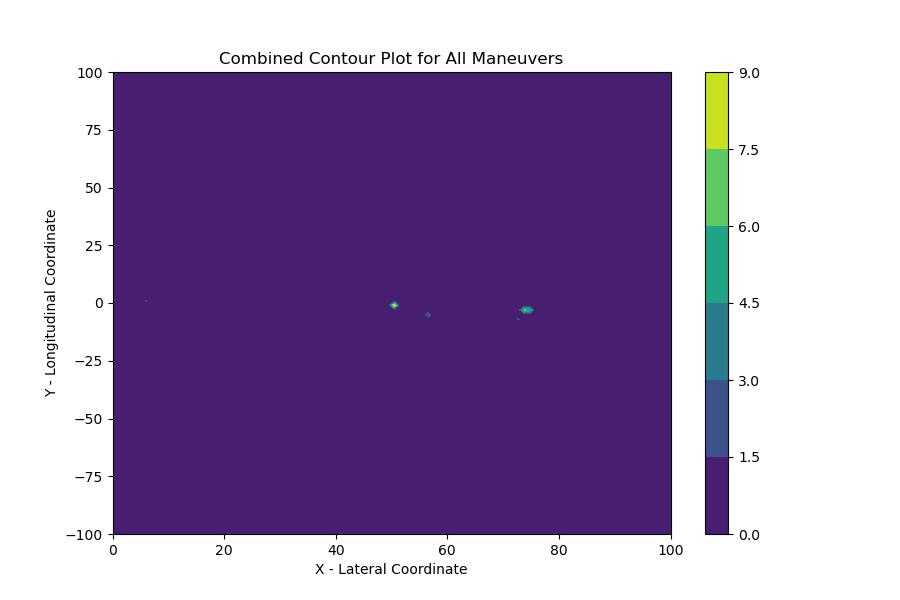
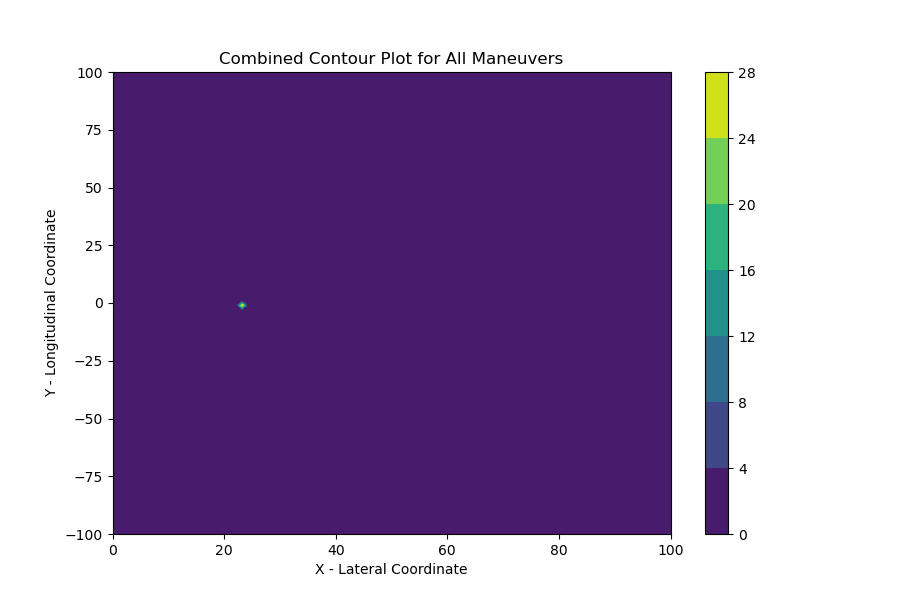
something wrong with accuracy

diff --git a/conv-social-pooling/codes/Trajectory_Prediction.py b/conv-social-pooling/codes/Trajectory_Prediction.py
@@ -245,7 +245,7 @@ def predict_trajectories(input_data, overpass_start_time_input, overpass_start_l
                     
                     if segment_integral > highest_integral_value:
                         highest_integral_value = segment_integral
-                        best_trajectory.update({'time': temp_time, 'xloc': x_list.tolist(), 'yloc': y_list.tolist(), 'muX': temp_muX, 'muY': temp_muY, 'sigX': temp_sigX, 'sigY': temp_sigY, 'line_integral_values': segment_integral, 'maneuver': m + 1, 'ID': ids})
+                        best_trajectory.update({'time': temp_time, 'xloc': [x1,x2], 'yloc': [y1,y2], 'muX': temp_muX, 'muY': temp_muY, 'sigX': temp_sigX, 'sigY': temp_sigY, 'line_integral_values': segment_integral, 'maneuver': m + 1, 'ID': ids})
                     
                     current_trajectory['time'].append(temp_time)
                     current_trajectory['xloc'].append((x1, x2))
